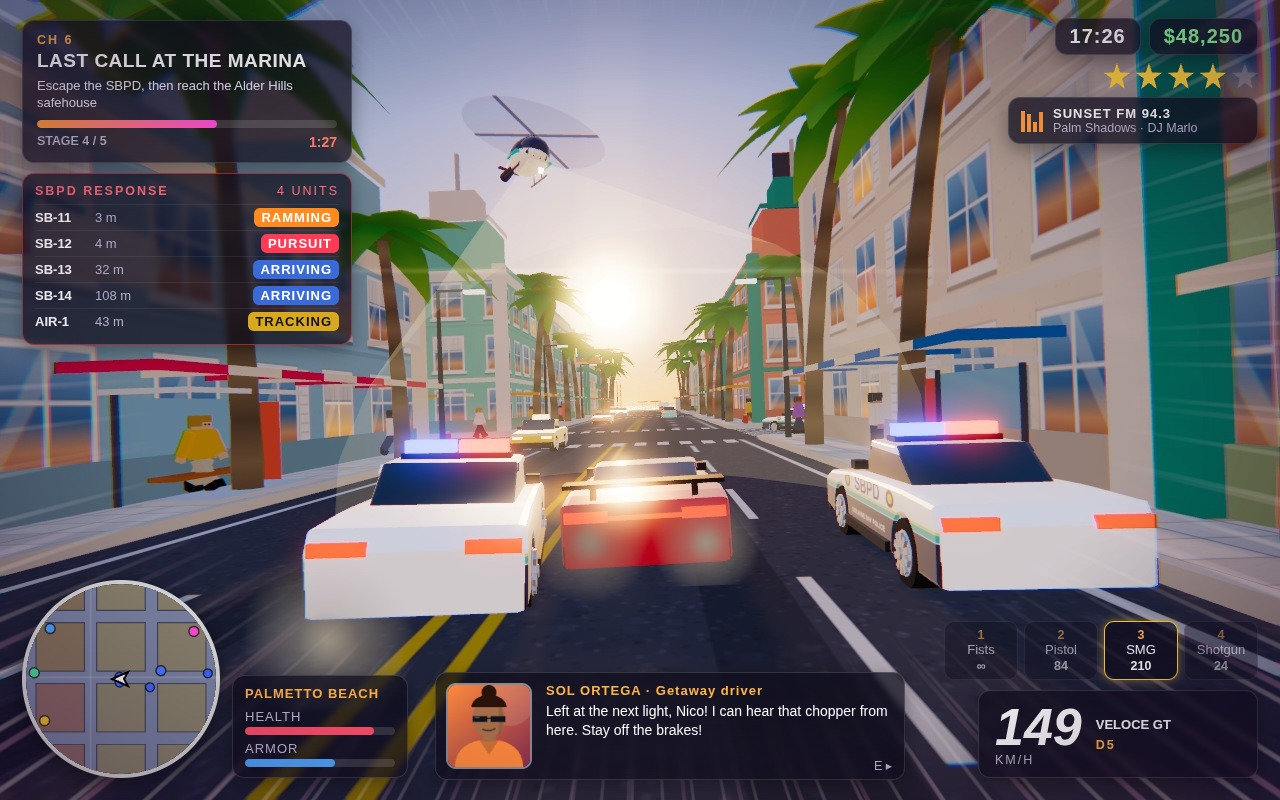
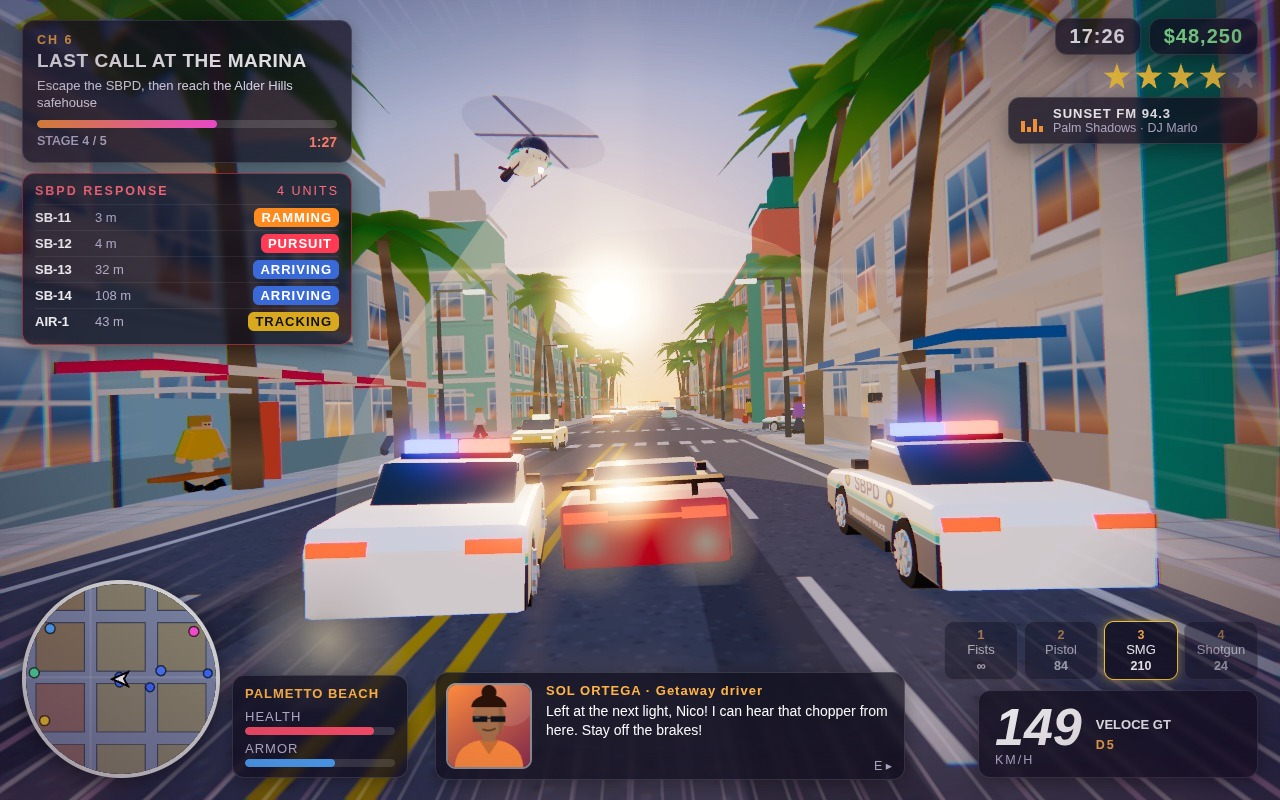
Lighter asphalt; re-shoot all screenshots

diff --git a/game/src/world/textureFactory.js b/game/src/world/textureFactory.js
@@ -55,7 +55,7 @@ export function facadeMaps() {
 export function asphaltTex(lines = true) {
   seed = 11;
   return canvasTex(512, 512, (g) => {
-    g.fillStyle = '#62636b'; g.fillRect(0, 0, 512, 512); noise(g, 512, 512, 9000, 0.12, 2); noise(g, 512, 512, 600, 0.06, 6);
+    g.fillStyle = '#7c7d85'; g.fillRect(0, 0, 512, 512); noise(g, 512, 512, 9000, 0.12, 2); noise(g, 512, 512, 600, 0.06, 6);
     g.fillStyle = 'rgba(30,30,36,0.18)'; for (let k = 0; k < 2; k++) g.fillRect(0, 150 + k * 190, 512, 34); // tyre polish in each lane pair
     if (!lines) return;
     g.fillStyle = '#f6f6f0'; g.fillRect(0, 26, 512, 7); g.fillRect(0, 479, 512, 7);

diff --git a/game/src/world/roadNetwork.js b/game/src/world/roadNetwork.js
@@ -16,7 +16,7 @@ export function buildRoads(scene) {
   const buf = newBuf();
   for (let i = 0; i <= N; i++) for (let j = 0; j <= N; j++) {
     const x = lineCoord(i), z = lineCoord(j);
-    pushBox(buf, x, 0, z, RW, 0.05, RW, 0x5c5d65);
+    pushBox(buf, x, 0, z, RW, 0.05, RW, 0x76777f);
     for (let s = -5; s <= 5; s++) for (const sg of [-1, 1]) {
       pushBox(buf, x + s * 1.1, 0.04, z + sg * 8.4, 0.55, 0.03, 2.4, 0xf2f0e8); // crosswalk over the z-road
       pushBox(buf, x + sg * 8.4, 0.04, z + s * 1.1, 2.4, 0.03, 0.55, 0xf2f0e8); // crosswalk over the x-road
